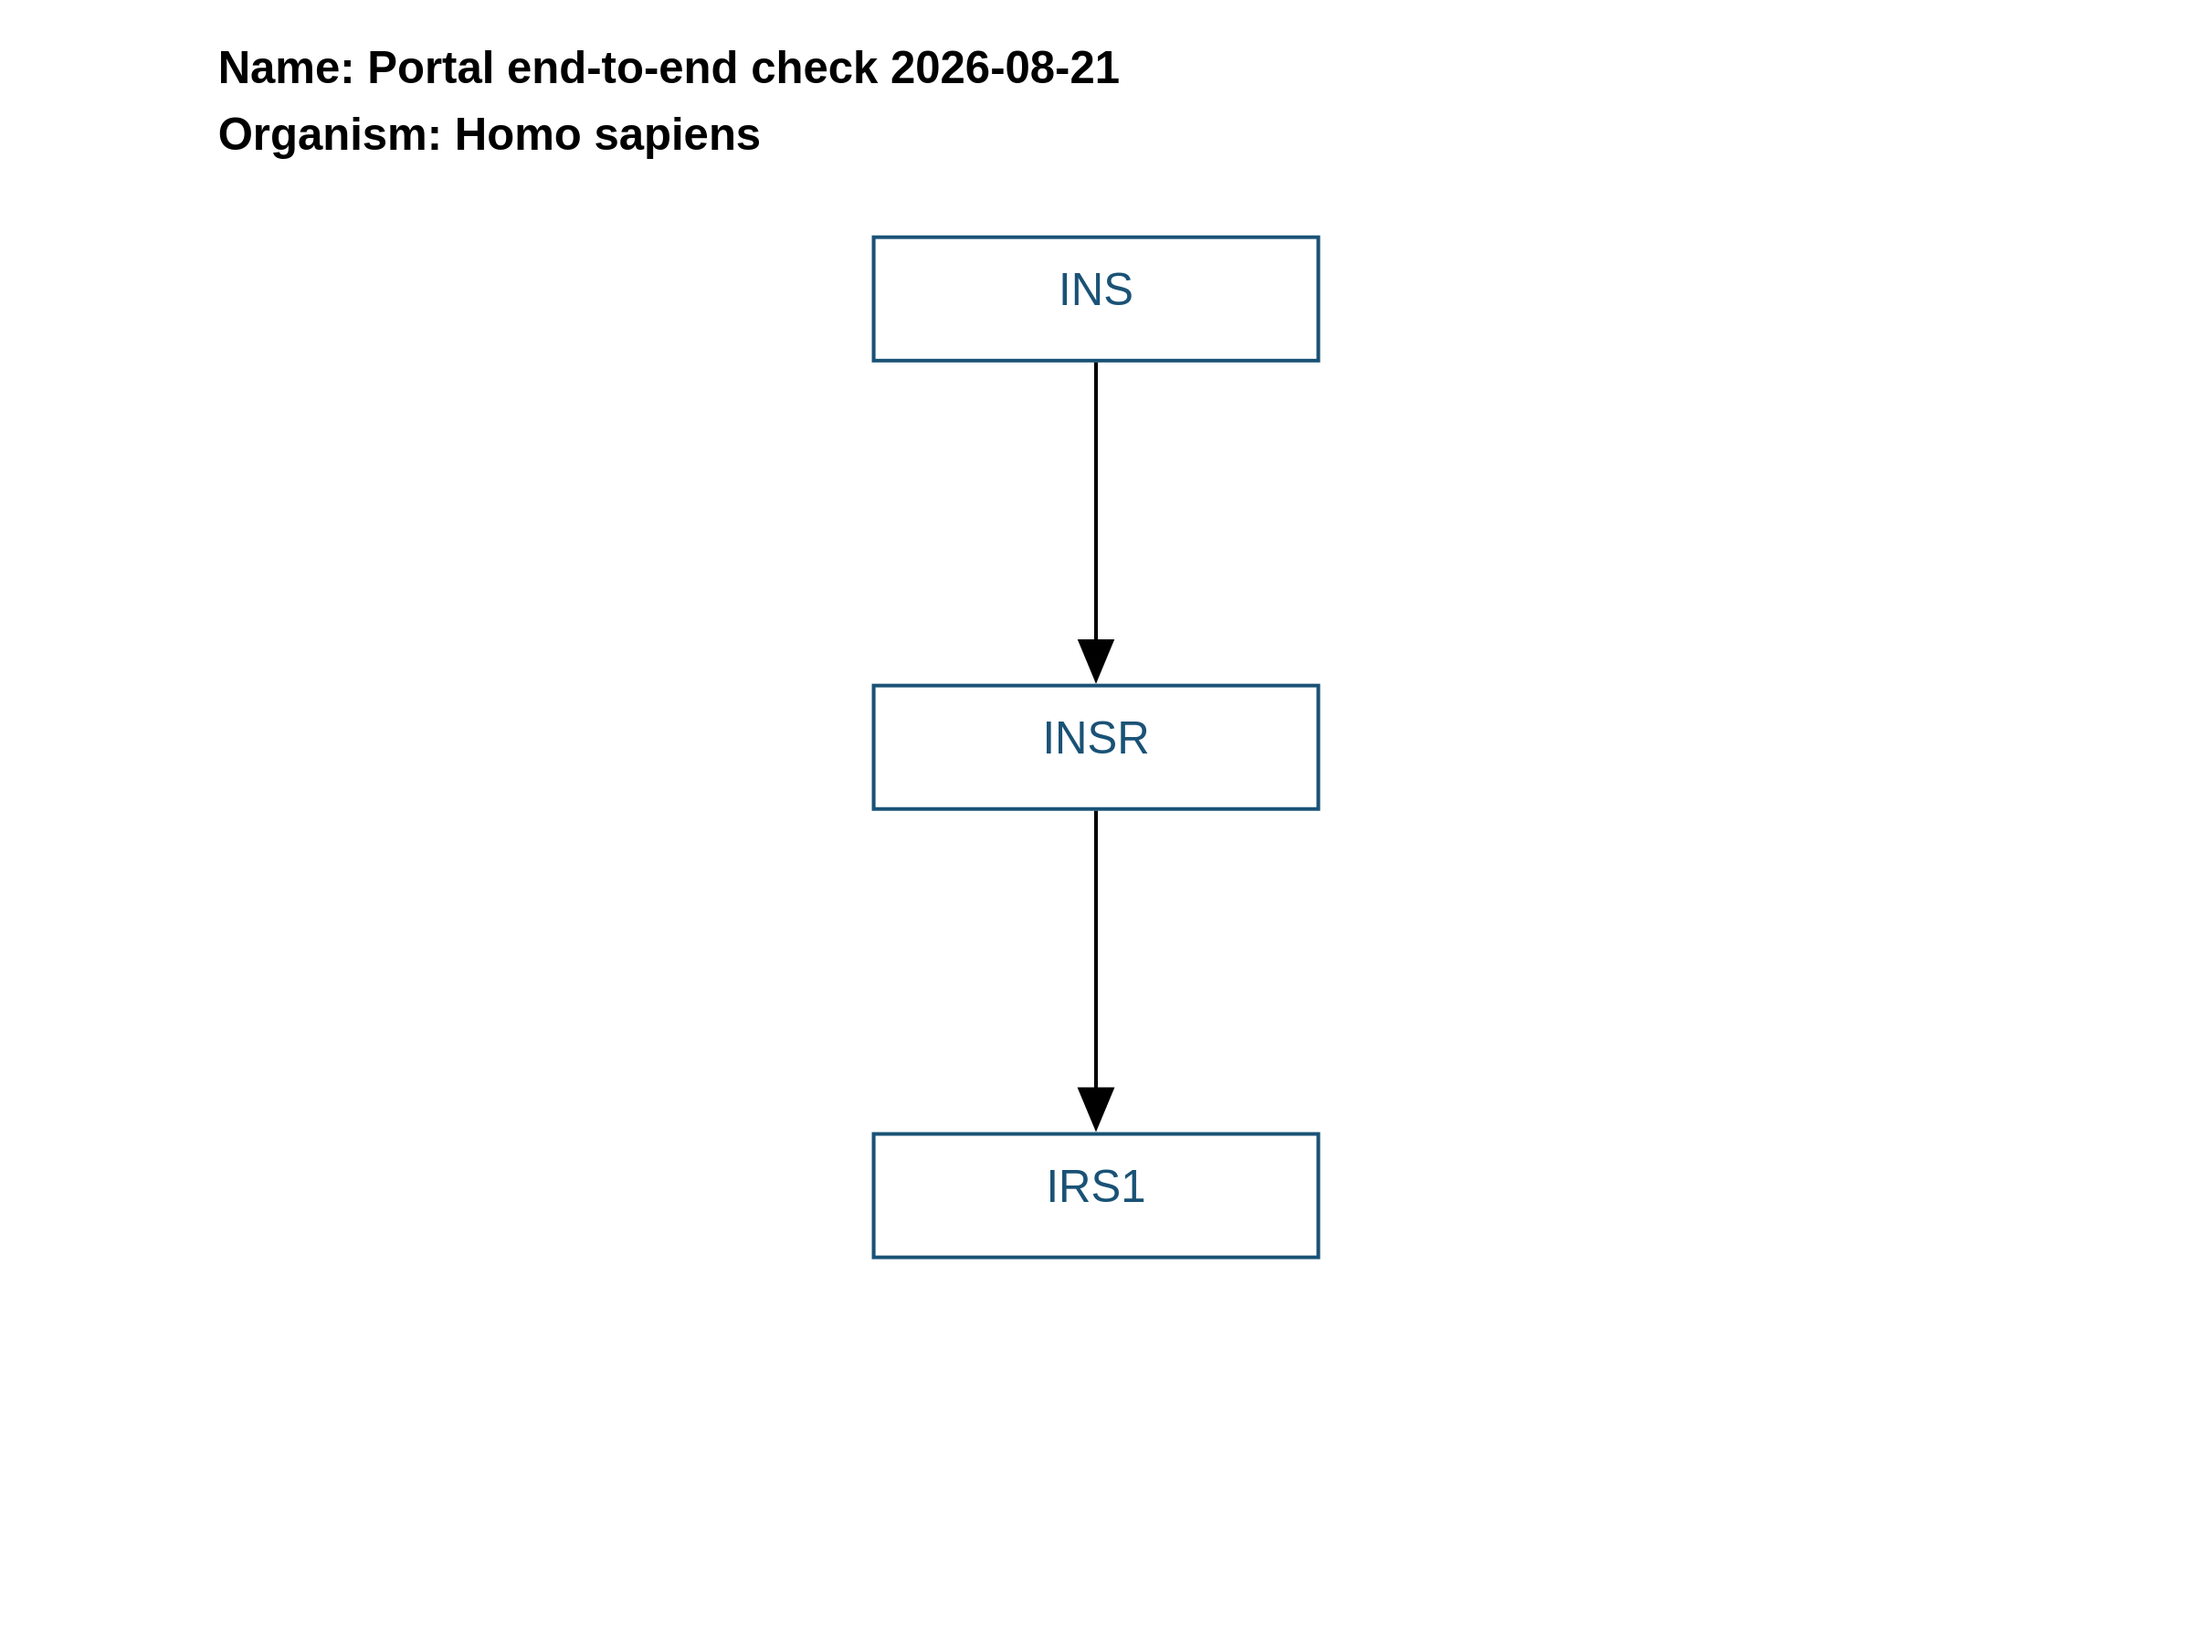
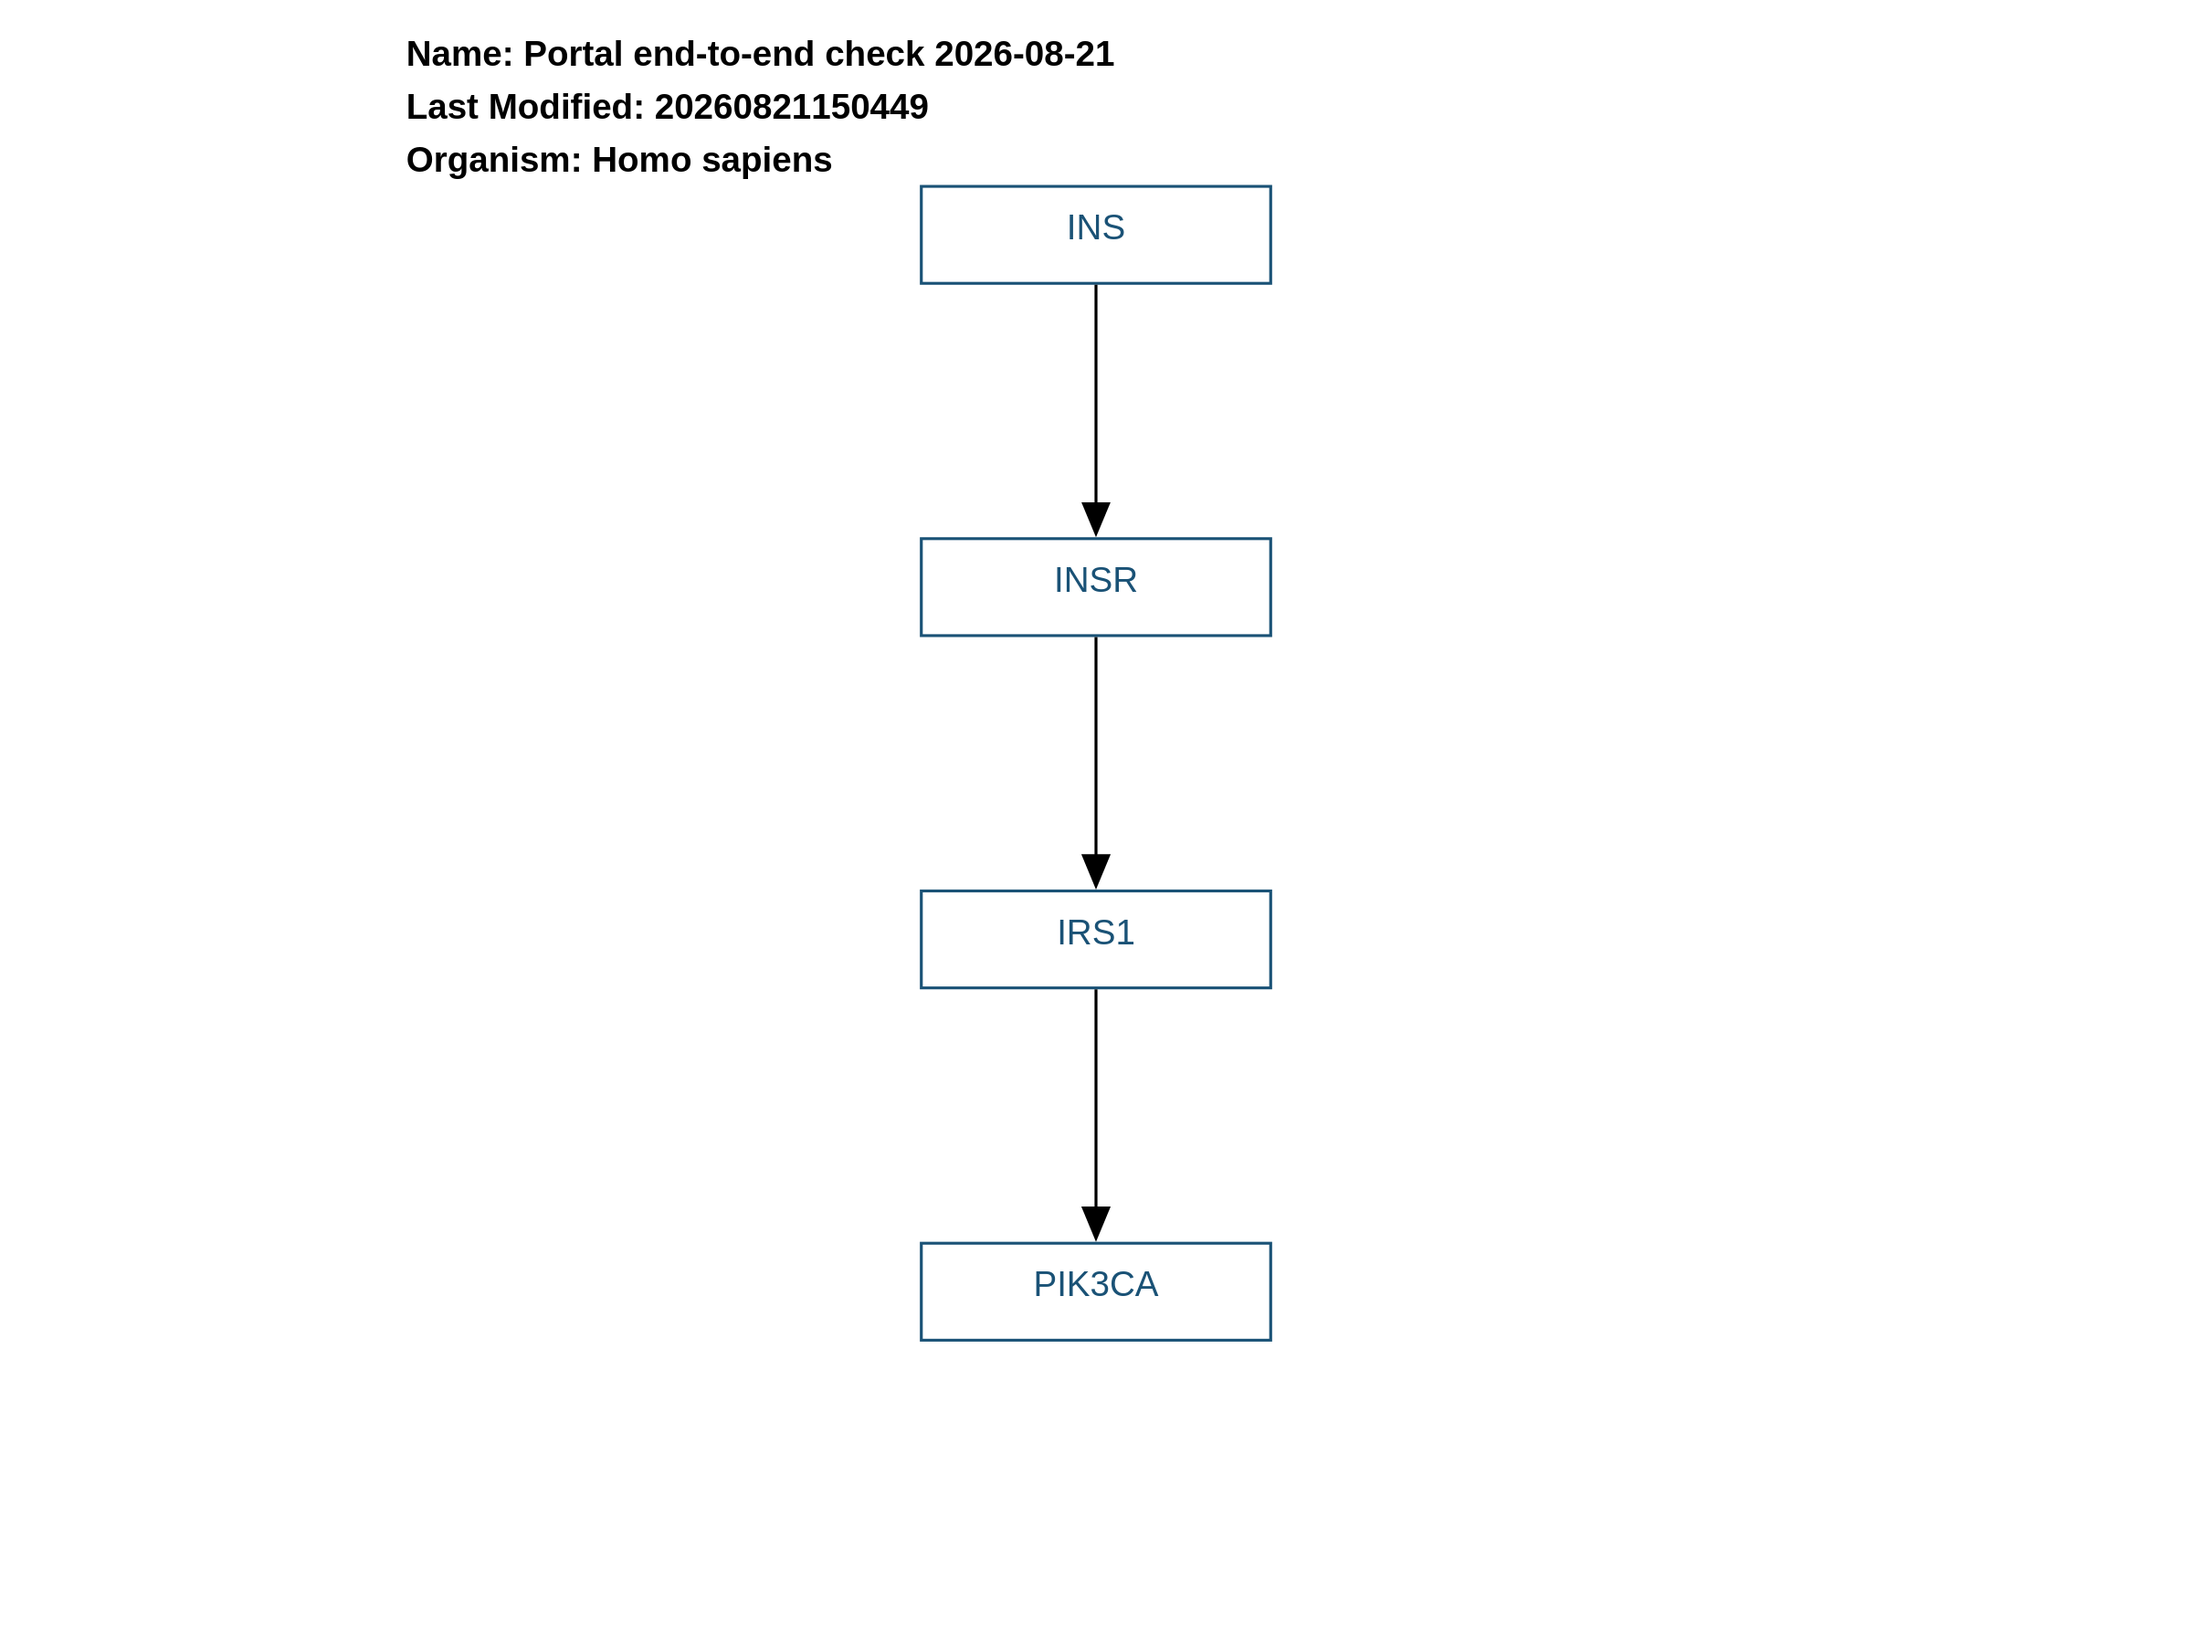
Add files for approved pathway WP5426

diff --git a/pathways/WP5426/WP5426.md b/pathways/WP5426/WP5426.md
@@ -6,7 +6,7 @@ citedin: ''
 communities: []
 description: Second verification run for the portal cutover, exercising the automatic
   publish path. Insulin binds and activates the insulin receptor, which phosphorylates
-  IRS1 and propagates the signal downstream.
+  IRS1 and propagates the signal downstream to the PI3K catalytic subunit PIK3CA.
 last-edited: 2026-08-21
 ndex: null
 organisms:
@@ -14,8 +14,8 @@ organisms:
 redirect_from:
 - /index.php/Pathway:WP5426
 - /instance/WP5426
-- /instance/WP5426_r20260821150449
-revision: r20260821150449
+- /instance/WP5426_r20260821200752
+revision: r20260821200752
 schema-jsonld:
 - '@context': https://schema.org/
   '@id': https://wikipathways.github.io/pathways/WP5426.html
@@ -25,11 +25,12 @@ schema-jsonld:
     name: WikiPathways
   description: Second verification run for the portal cutover, exercising the automatic
     publish path. Insulin binds and activates the insulin receptor, which phosphorylates
-    IRS1 and propagates the signal downstream.
+    IRS1 and propagates the signal downstream to the PI3K catalytic subunit PIK3CA.
   keywords:
   - INS
   - INSR
   - IRS1
+  - PIK3CA
   license: CC0
   name: Portal end-to-end check 2026-08-21
 seo: CreativeWork
